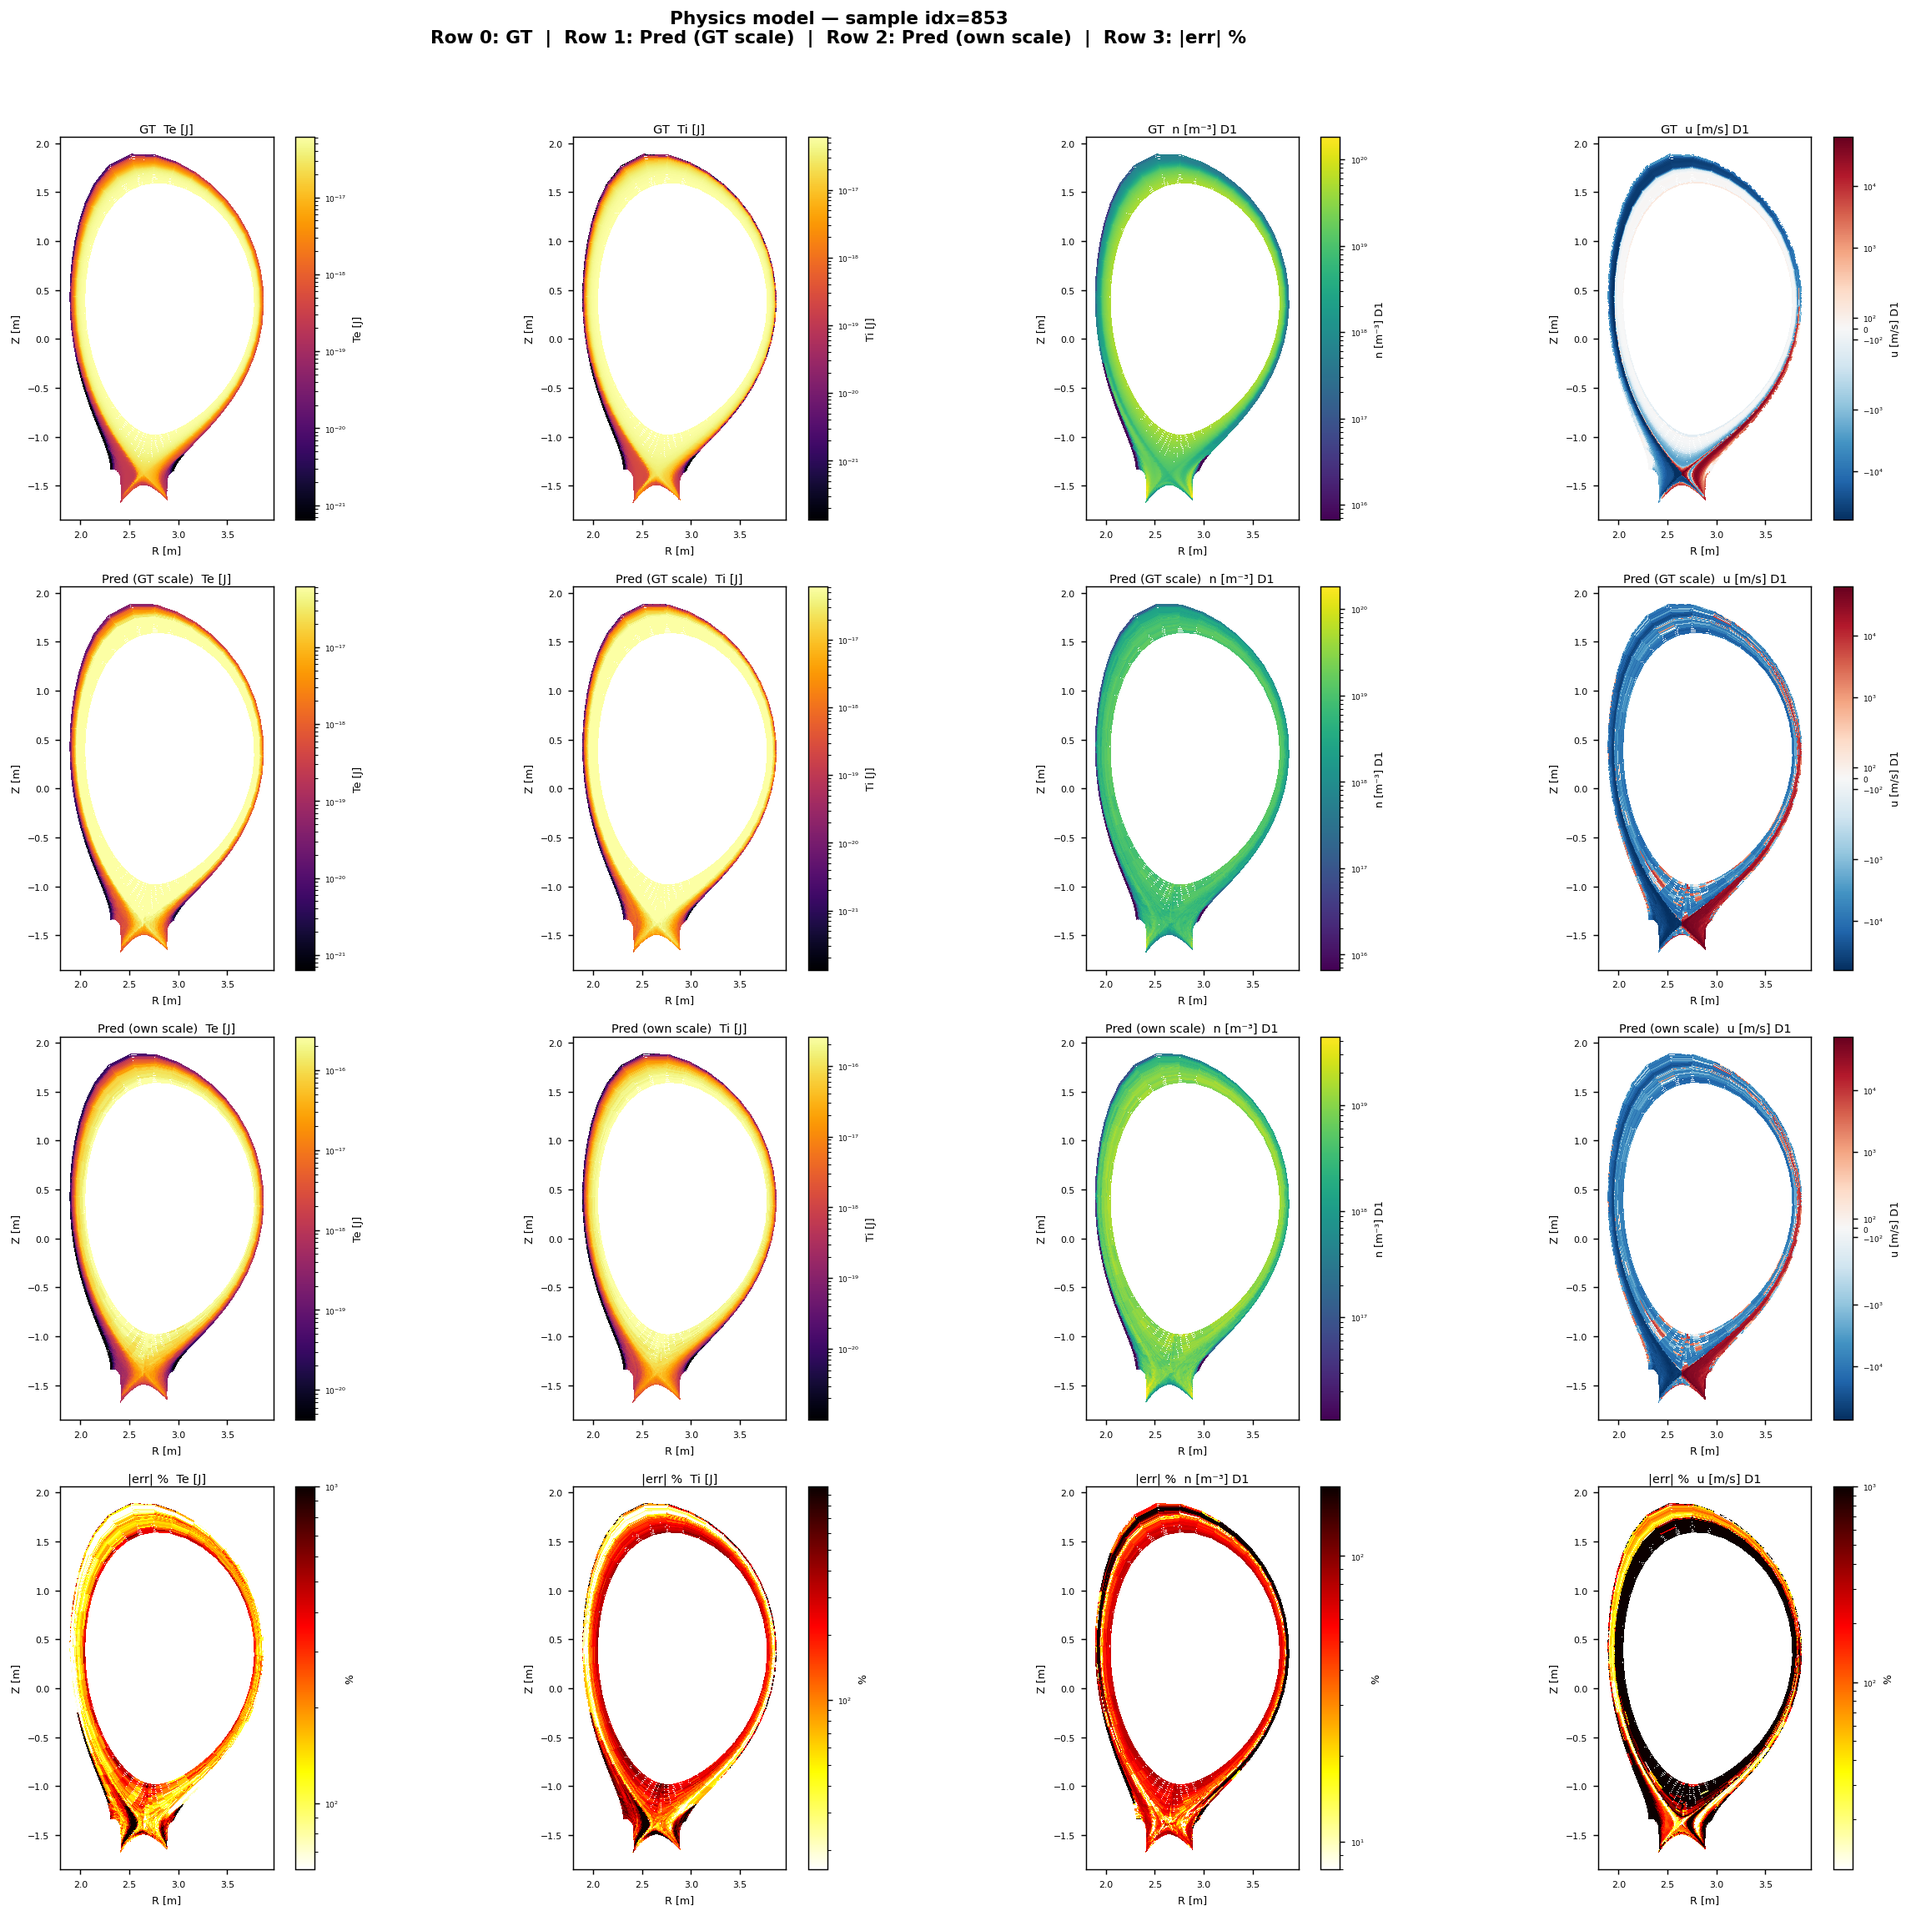
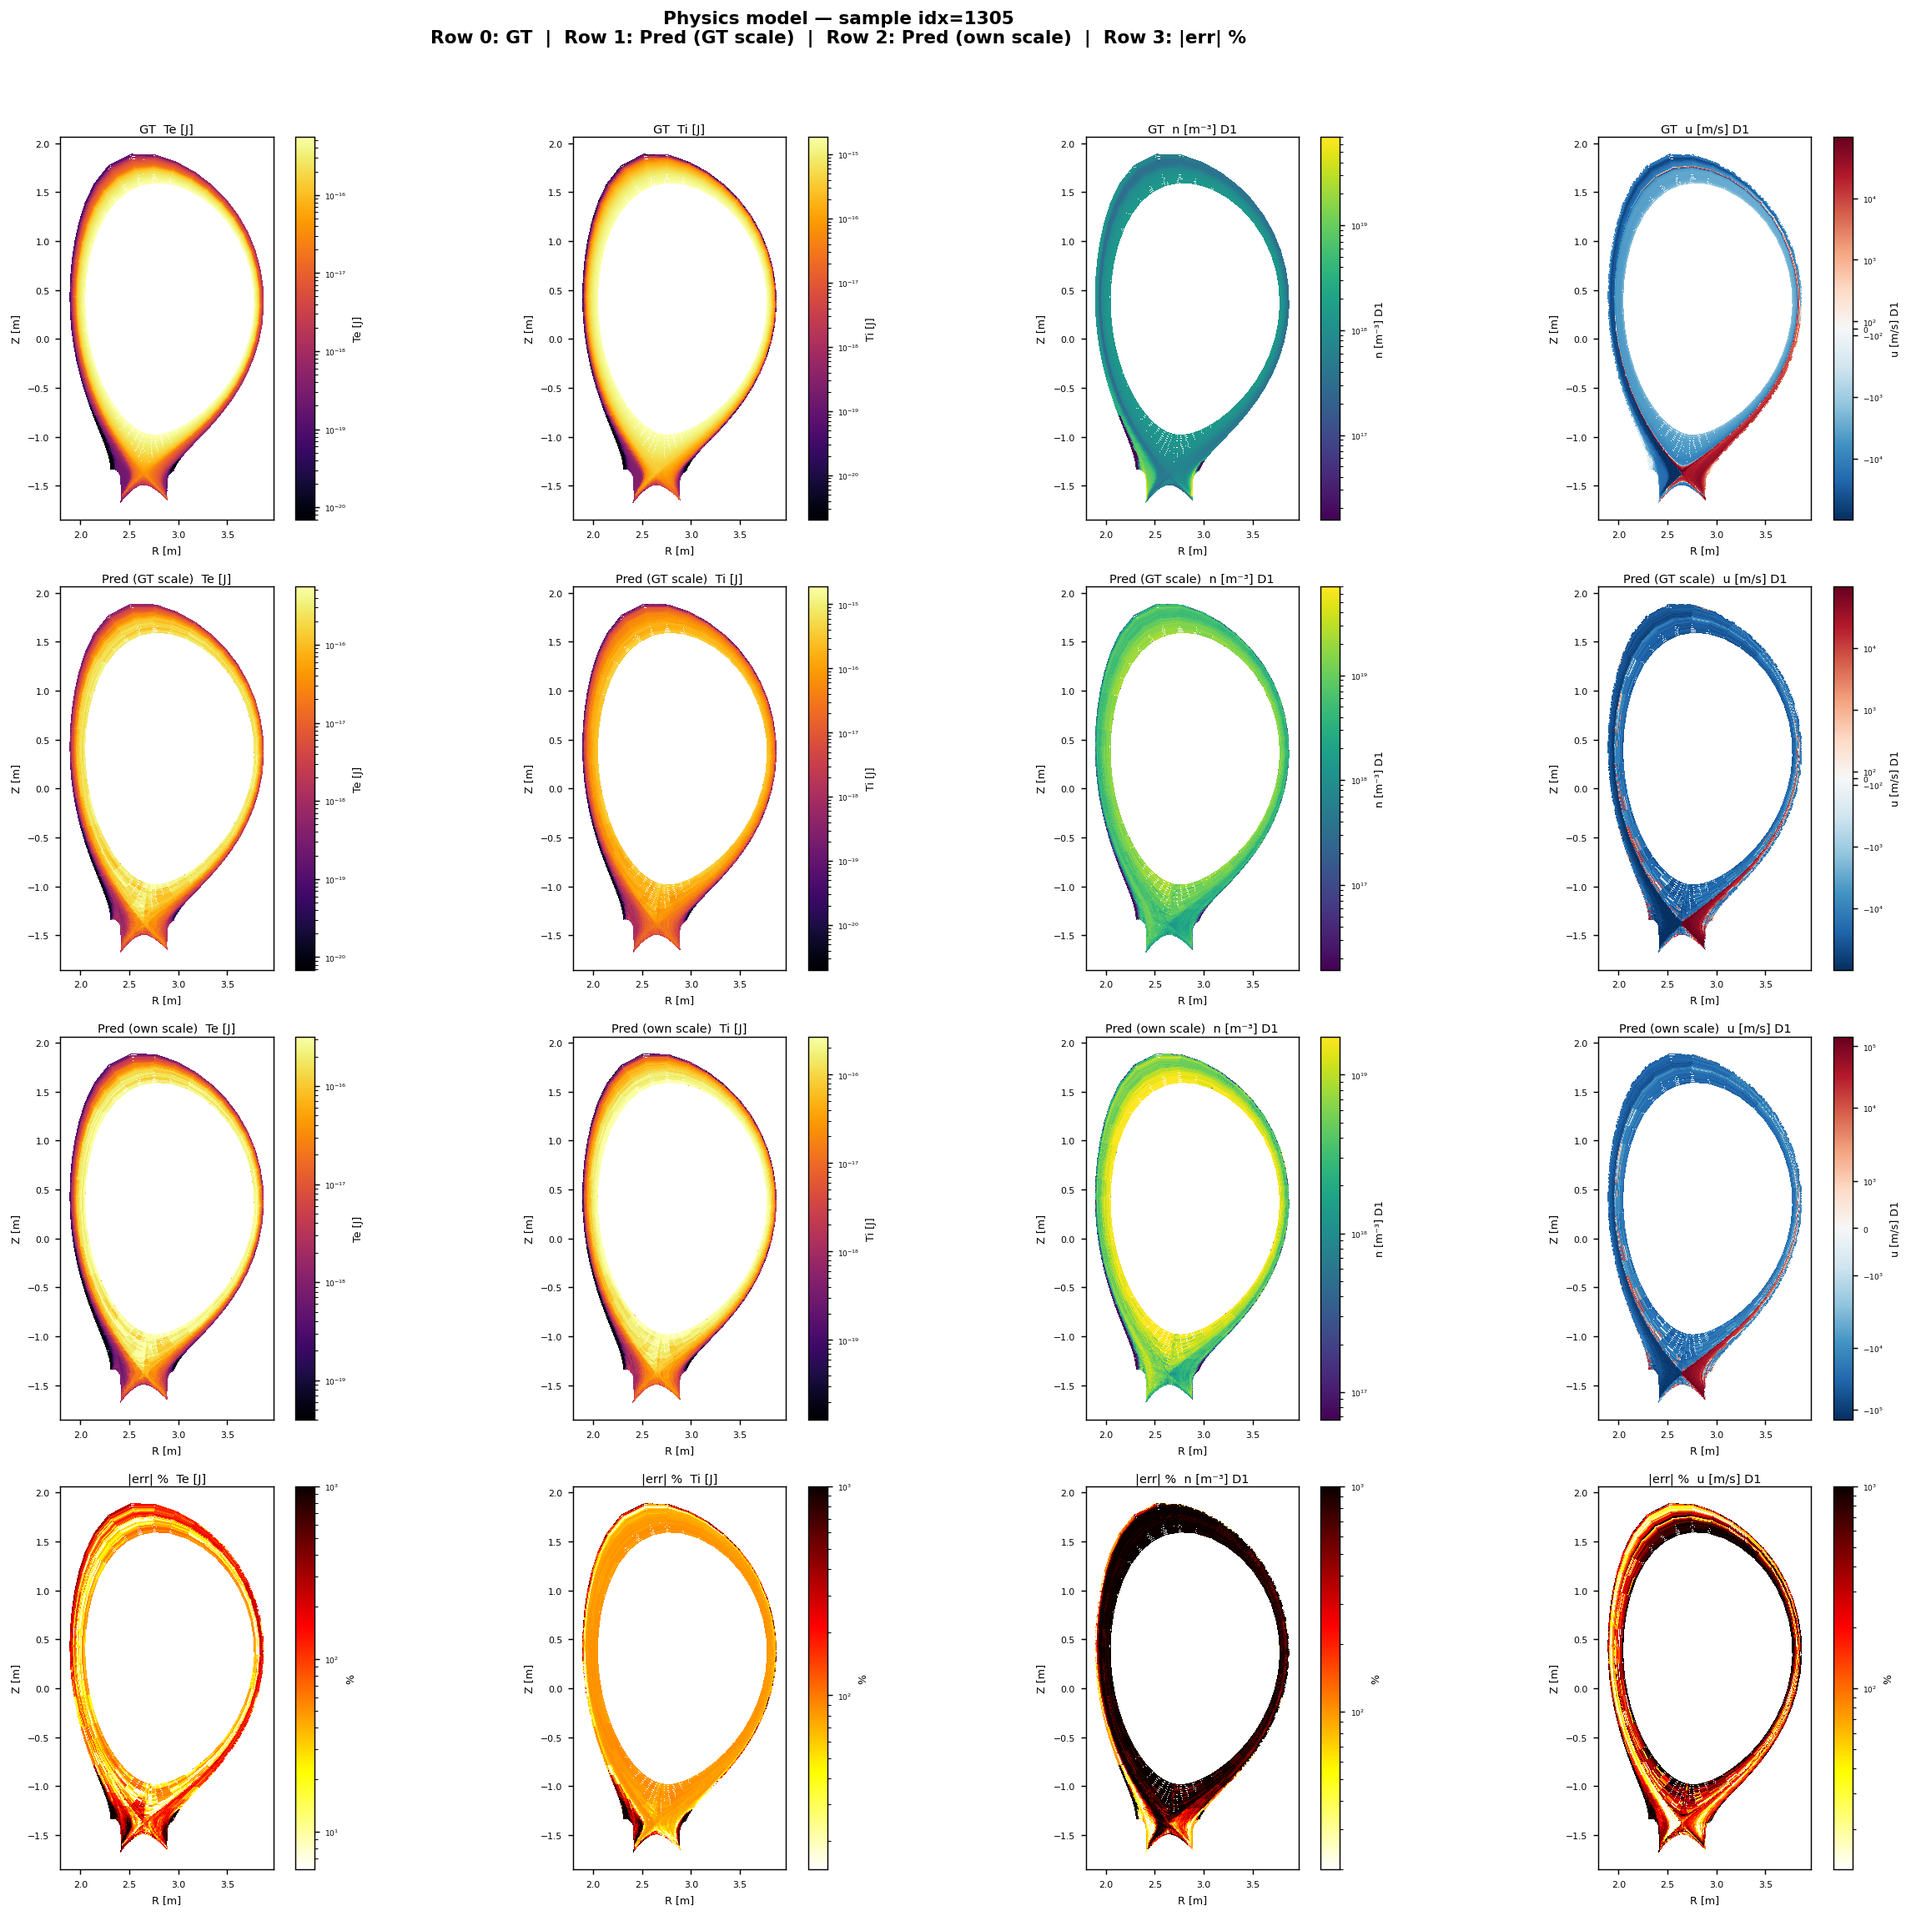
Refactor normalization statistics calculation; update handling for log-scale fields and improve clamping logic in TorchDenormalizer.

diff --git a/train_physics_model.py b/train_physics_model.py
@@ -82,8 +82,9 @@ class TorchDenormalizer:
 
         if field == "ua":
             # ua: reverse arcsinh transform
+            # min=1.0 mirrors PlasmaDataHandler.denormalize (np.maximum(scale, 1.0))
             scale = torch.maximum(torch.abs(vmin), torch.abs(vmax))
-            scale = torch.clamp(scale, min=1e-8)
+            scale = torch.clamp(scale, min=1.0)
             asinh_max = torch.asinh(torch.tensor(1.0, dtype=torch.float32, device=x.device))
             # Reverse: [0,1] → [-asinh_max, asinh_max] → sinh → original scale
             data_arcsinh = x * (2.0 * asinh_max) - asinh_max
@@ -96,9 +97,13 @@ class TorchDenormalizer:
             # norm_stats_minmax.npz stores natural-log values directly in min/max
             # (same convention as data_handler.denormalize).  Clamp before exp()
             # to prevent float32 overflow from out-of-range model outputs.
-            v_lo = float(vmin.min().item())
-            v_hi = float(vmax.max().item())
-            out = torch.clamp(out, min=v_lo, max=v_hi)
+            # For te/ti: vmin/vmax are scalar; for na: shape (10,) — clamp per-species.
+            if vmin.numel() == 1:
+                out = torch.clamp(out, min=vmin.item(), max=vmax.item())
+            else:
+                # torch.clamp supports tensor min/max (PyTorch >= 1.9), broadcasts
+                # against the last dim of out (..., 10)
+                out = torch.clamp(out, min=vmin, max=vmax)
             out = torch.exp(out)
 
         return out
@@ -157,6 +162,9 @@ def compute_cvae_kl(model: "ConditionalVAE", mu: torch.Tensor, logvar: torch.Ten
     """
     if model.use_prior_net:
         mu_p, logvar_p = model.prior_net(cond)
+        # Clamp logvars to prevent exp() overflow / division by near-zero
+        logvar   = torch.clamp(logvar,   -10.0, 10.0)
+        logvar_p = torch.clamp(logvar_p, -10.0, 10.0)
         # KL between two diagonal Gaussians
         kl = 0.5 * (
             logvar_p - logvar
@@ -193,6 +201,11 @@ class PlasmaDataset(Dataset):
 
         # Raw arrays for this sample
         te = h.te[idx]       # (104, 50)
+        if h.ti is None:
+            raise RuntimeError(
+                "ti (ion temperature) not loaded — ti_tmp.npy missing in split directory. "
+                "This model requires all 22 channels including ti."
+            )
         ti = h.ti[idx]       # (104, 50)
         na = h.na[idx]       # (104, 50, 10)
         ua = h.ua[idx]       # (104, 50, 10)

diff --git a/recalc_norm_stats.py b/recalc_norm_stats.py
@@ -43,9 +43,14 @@ def recalc_stats(data_root: str = 'a_dataset'):
     # Compute stats
     new_stats = {}
     
-    # X: linear scale
-    new_stats['X_min'] = X.min(axis=0).astype(np.float32)
-    new_stats['X_max'] = X.max(axis=0).astype(np.float32)
+    # X: mixed scale — indices [3,4,5] (D_puff, N_puff, D_core) use log10.
+    # norm_stats convention: X_min/max store log10 values at those indices.
+    X_LOG_INDICES = [3, 4, 5]
+    X_for_stat = X.copy().astype(np.float64)
+    for idx in X_LOG_INDICES:
+        X_for_stat[:, idx] = np.log10(X[:, idx])
+    new_stats['X_min'] = X_for_stat.min(axis=0).astype(np.float32)
+    new_stats['X_max'] = X_for_stat.max(axis=0).astype(np.float32)
     logger.info(f"X: min={new_stats['X_min']}, max={new_stats['X_max']}")
     
     # te: log scale
@@ -78,7 +83,7 @@ def recalc_stats(data_root: str = 'a_dataset'):
     # Store LOG values in na_min/na_max (not linear!)
     new_stats['na_min'] = np.array(na_log_min, dtype=np.float32)
     new_stats['na_max'] = np.array(na_log_max, dtype=np.float32)
-    # Also store linear versions for reference
+    # Also store linear (original-scale) versions for reference
     na_min_linear = []
     na_max_linear = []
     for sp in range(na.shape[-1]):
@@ -86,8 +91,8 @@ def recalc_stats(data_root: str = 'a_dataset'):
         na_pos = na_sp[na_sp > 0]
         na_min_linear.append(na_pos.min())
         na_max_linear.append(na_pos.max())
-    new_stats['na_log_min'] = np.array(na_log_min, dtype=np.float32)
-    new_stats['na_log_max'] = np.array(na_log_max, dtype=np.float32)
+    new_stats['na_min_linear'] = np.array(na_min_linear, dtype=np.float32)
+    new_stats['na_max_linear'] = np.array(na_max_linear, dtype=np.float32)
     logger.info(f"na (ln): min={new_stats['na_min']}, max={new_stats['na_max']}")
     
     # ua: linear scale — use percentiles (p2, p98) instead of min/max to handle outliers
